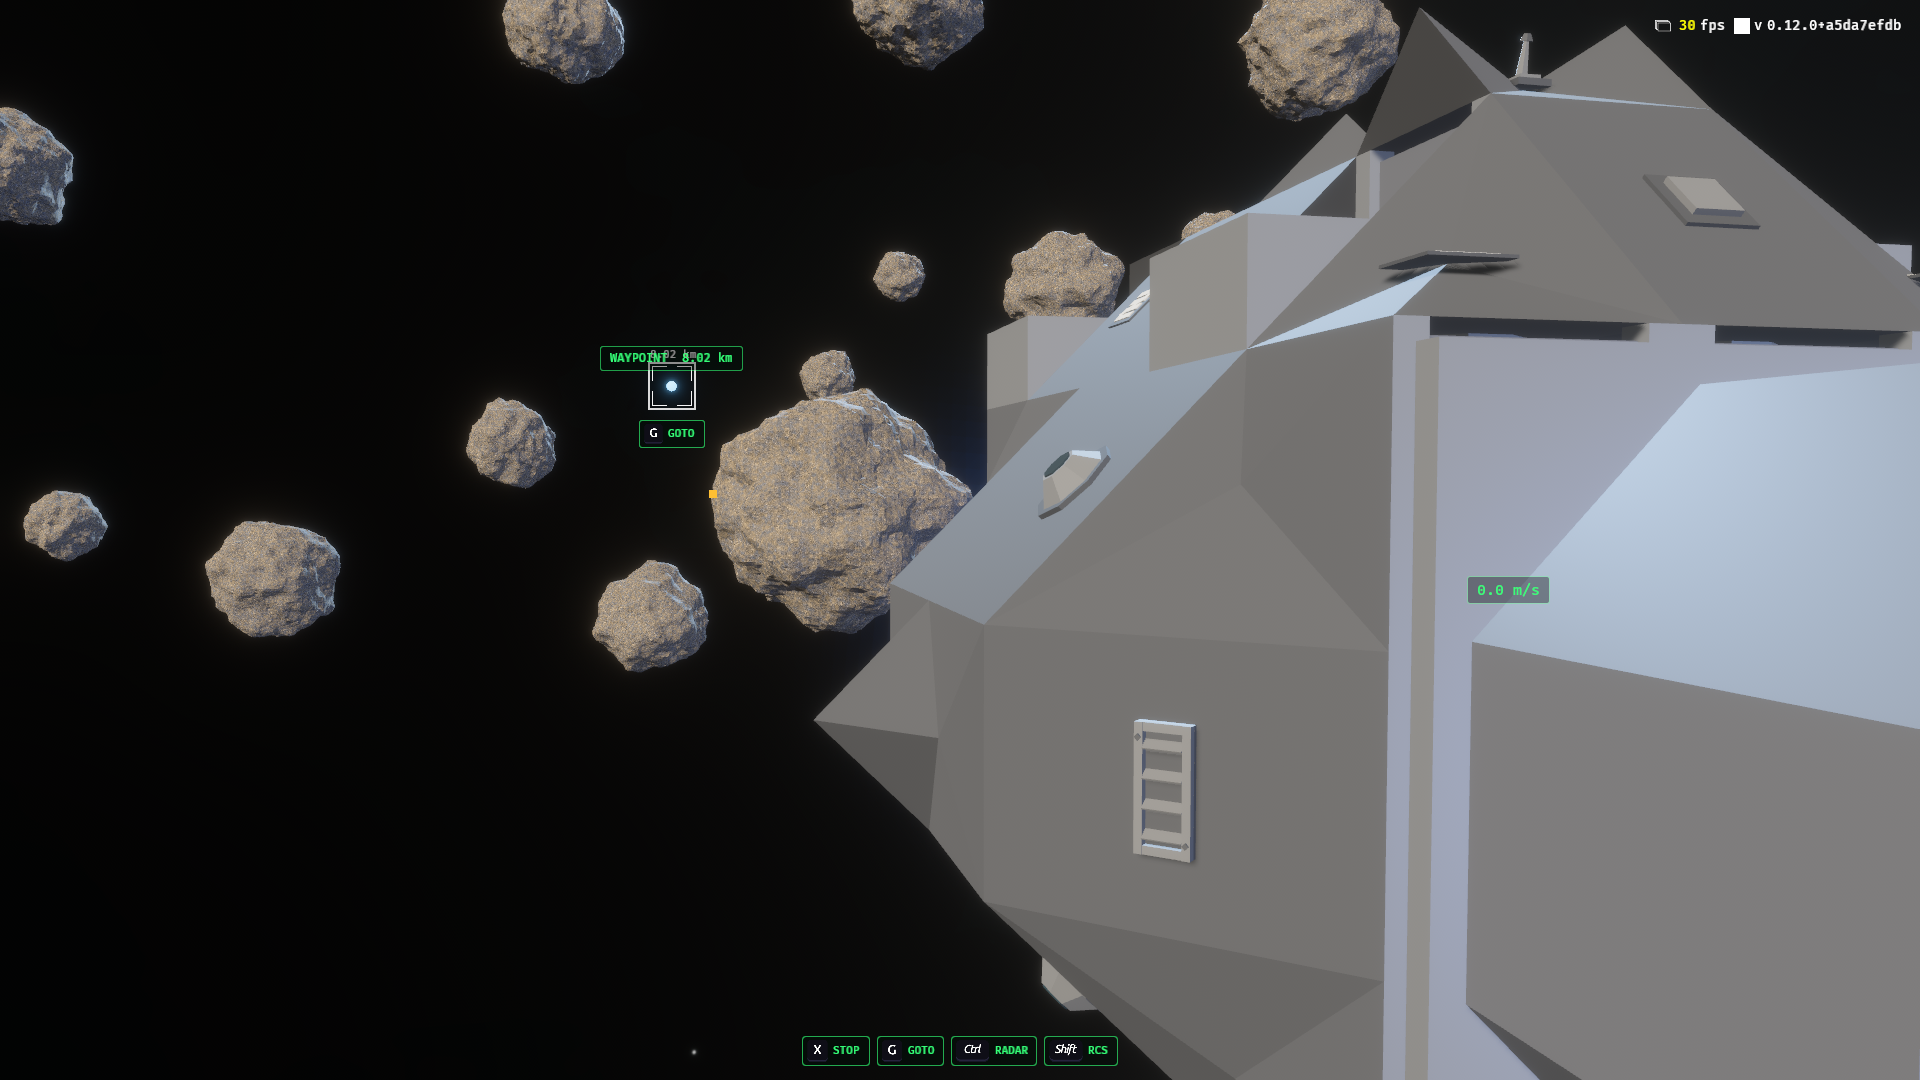
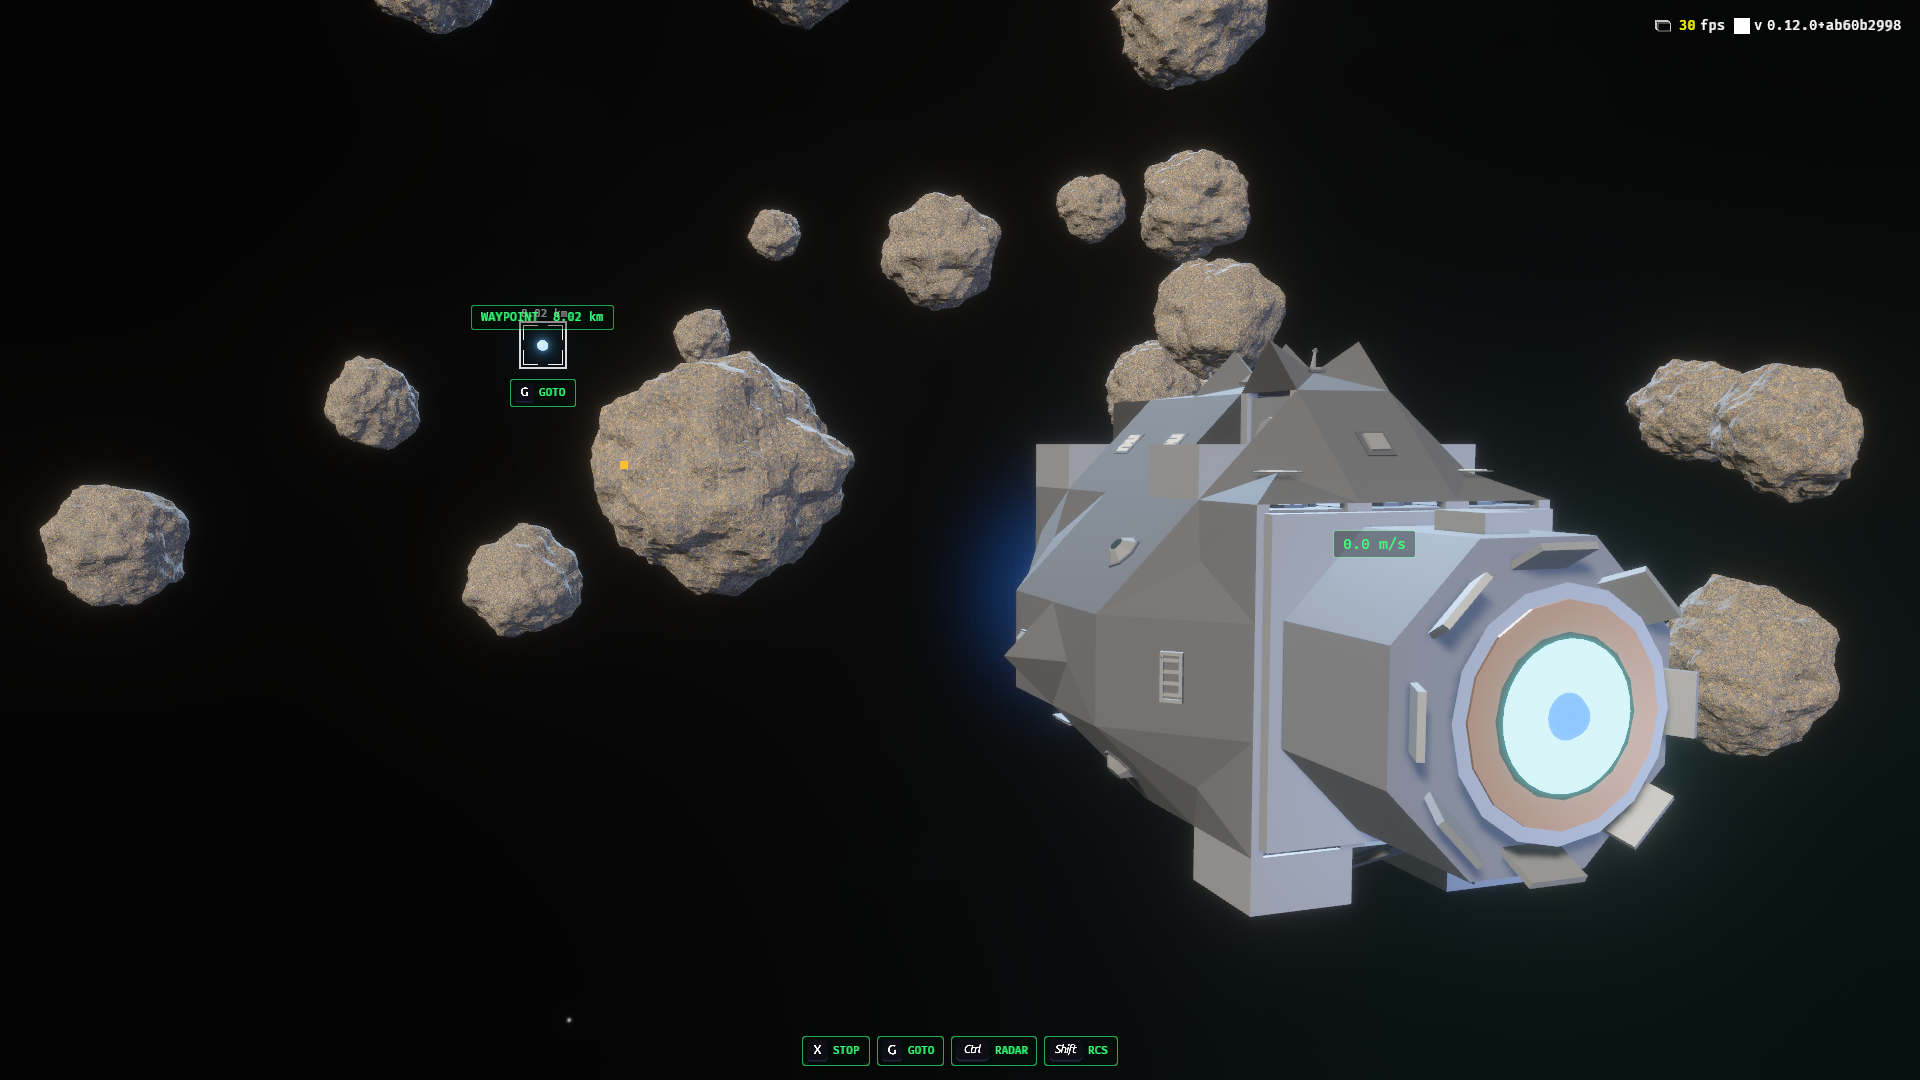
Re-pose the radar shot for the hull it now frames
Cladding the gunship without re-posing turned the shipped `wiki-radar.png`
into a close-up of hull plating. `ship(...)` takes the catalog hull with its
derived skin now, but the "frame the radar instrument" beat still posed at an
offset measured against the bare cell list: 70.7 m from a hull whose clad
bounding radius is 54.7 m, so the lens sat about 15 m off its corner. The right
half of the shipped frame was a featureless grey plate with no drive, no
cockpit and the speed chip buried in the plating - and it is the lead figure on
the targeting-radar wiki page, whose note asks for the box and a lock landing.

The lens moves to about 141 m, two and a half times the clad radius, and the
comment now states that the distance is set by the subject's size so the next
re-clad re-measures it. Re-shot at 1920x1080.

Claude-Session: https://claude.ai/code/session_0114ThW9A1KQKbfFzQTkCRyq

diff --git a/examples/screenshots/screenshot_radar_lock.rs b/examples/screenshots/screenshot_radar_lock.rs
@@ -249,11 +249,20 @@ fn radar_script() -> nova_protocol::nova_debug::harness::AutopilotPlugin<GameSta
         .add()
         // The radar instrument as its own subject: the same latched nav sweep
         // from a tighter, lower camera.
+        //
+        // The lens distance is set by the SUBJECT'S SIZE, not by taste. Clad,
+        // `block_gunship` is 85 x 50 x 48 m - a 54.7 m bounding radius - and
+        // an eye inside that is a close-up of hull plating with the ship's own
+        // drive and cockpit out of frame. This sits ~141 m out, about two and
+        // a half times the radius, which holds the whole corvette with the
+        // beacon's lock bracket beside it. Re-measure it if the hull is
+        // re-clad: the framing that came before this one was measured against
+        // the bare cell list and did not survive the skin.
         .step("frame the radar instrument")
         .on_enter(|world| {
             pose(
                 world,
-                START_POSITION + Meters3::new(-36.0, 10.0, 60.0),
+                START_POSITION + Meters3::new(-72.0, 20.0, 120.0),
                 START_POSITION + Meters3::new(0.0, 3.0, -100.0),
             )
         })
